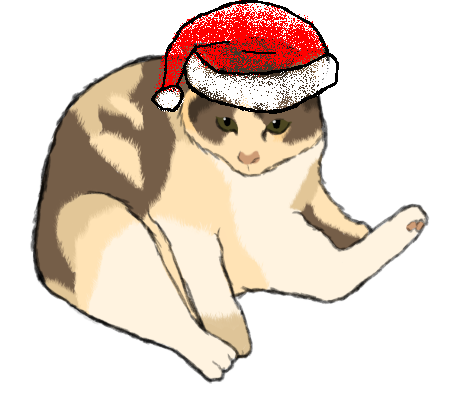
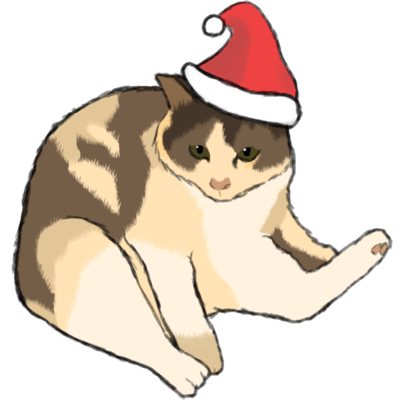
add rory flat too (and holiday variants)

diff --git a/launcher/ui/pages/global/LauncherPage.cpp b/launcher/ui/pages/global/LauncherPage.cpp
@@ -341,6 +341,9 @@ void LauncherPage::applySettings()
     case 1: // rory the cat
         s->set("BackgroundCat", "rory");
         break;
+    case 2: // rory the cat flat edition
+        s->set("BackgroundCat", "rory-flat");
+        break;
     }
 
     s->set("MenuBarInsteadOfToolBar", ui->preferMenuBarCheckBox->isChecked());
@@ -439,6 +442,8 @@ void LauncherPage::loadSettings()
         ui->themeBackgroundCat->setCurrentIndex(0);
     } else if (cat == "rory") {
         ui->themeBackgroundCat->setCurrentIndex(1);
+    } else if (cat == "rory-flat") {
+        ui->themeBackgroundCat->setCurrentIndex(2);
     }
 
     {
